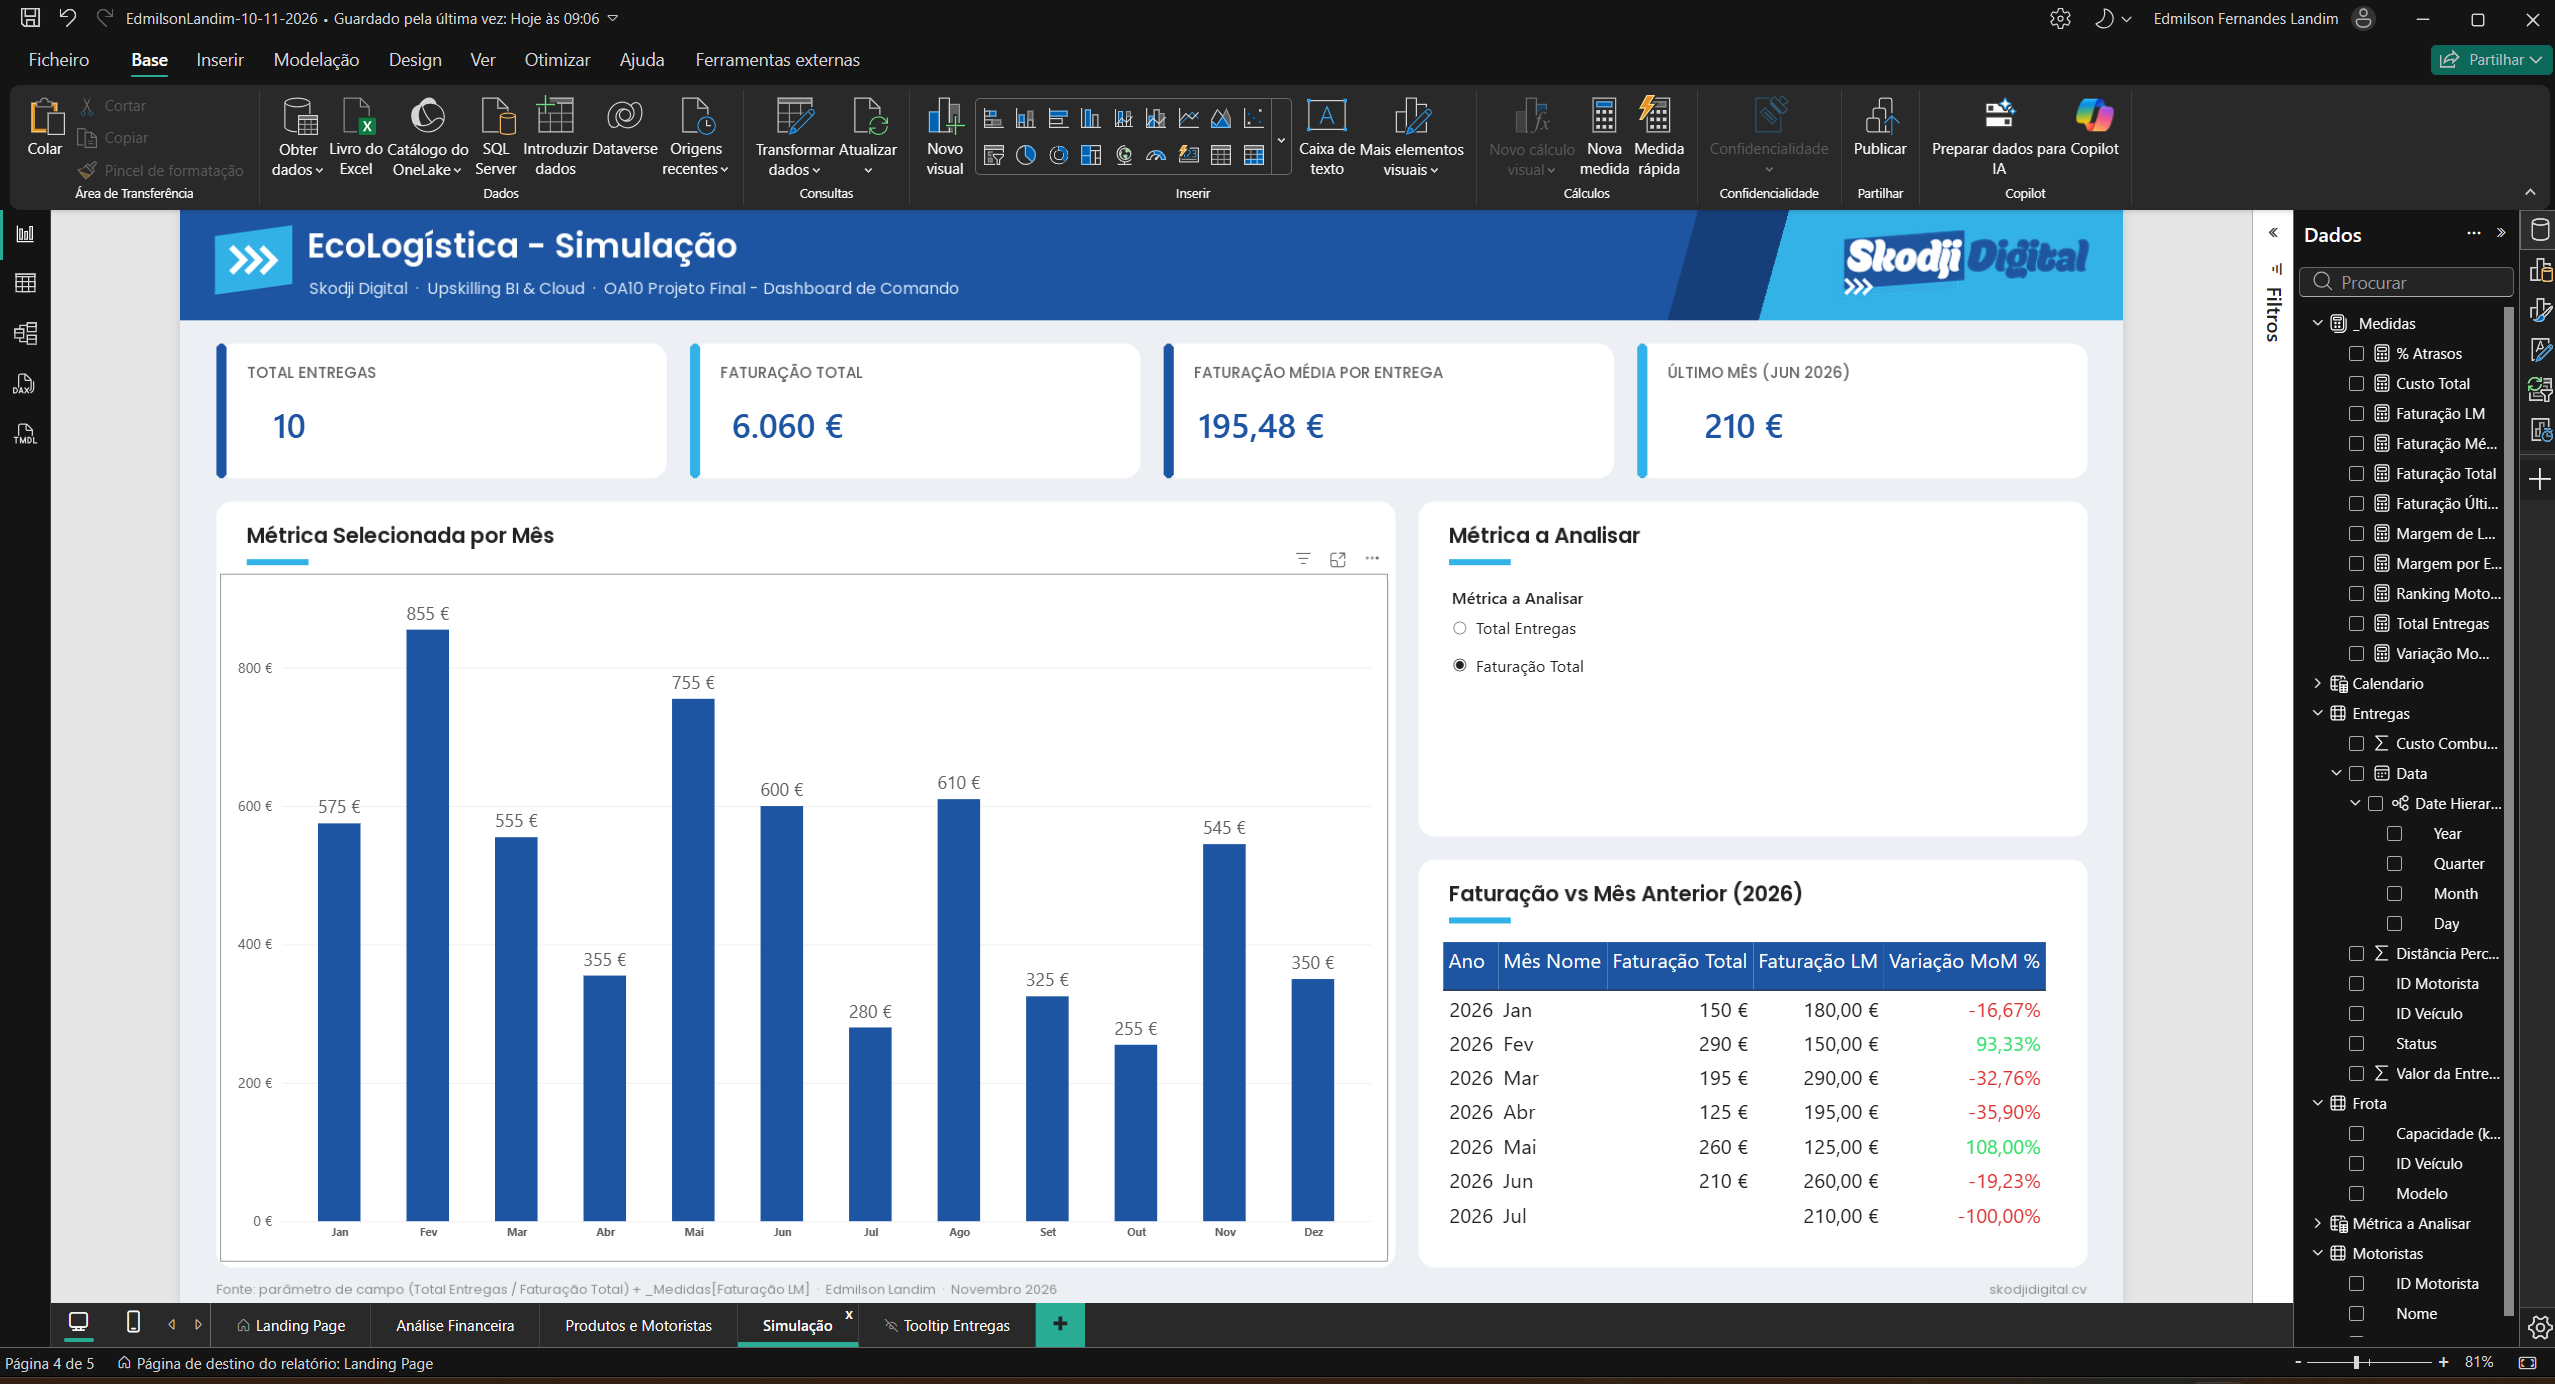
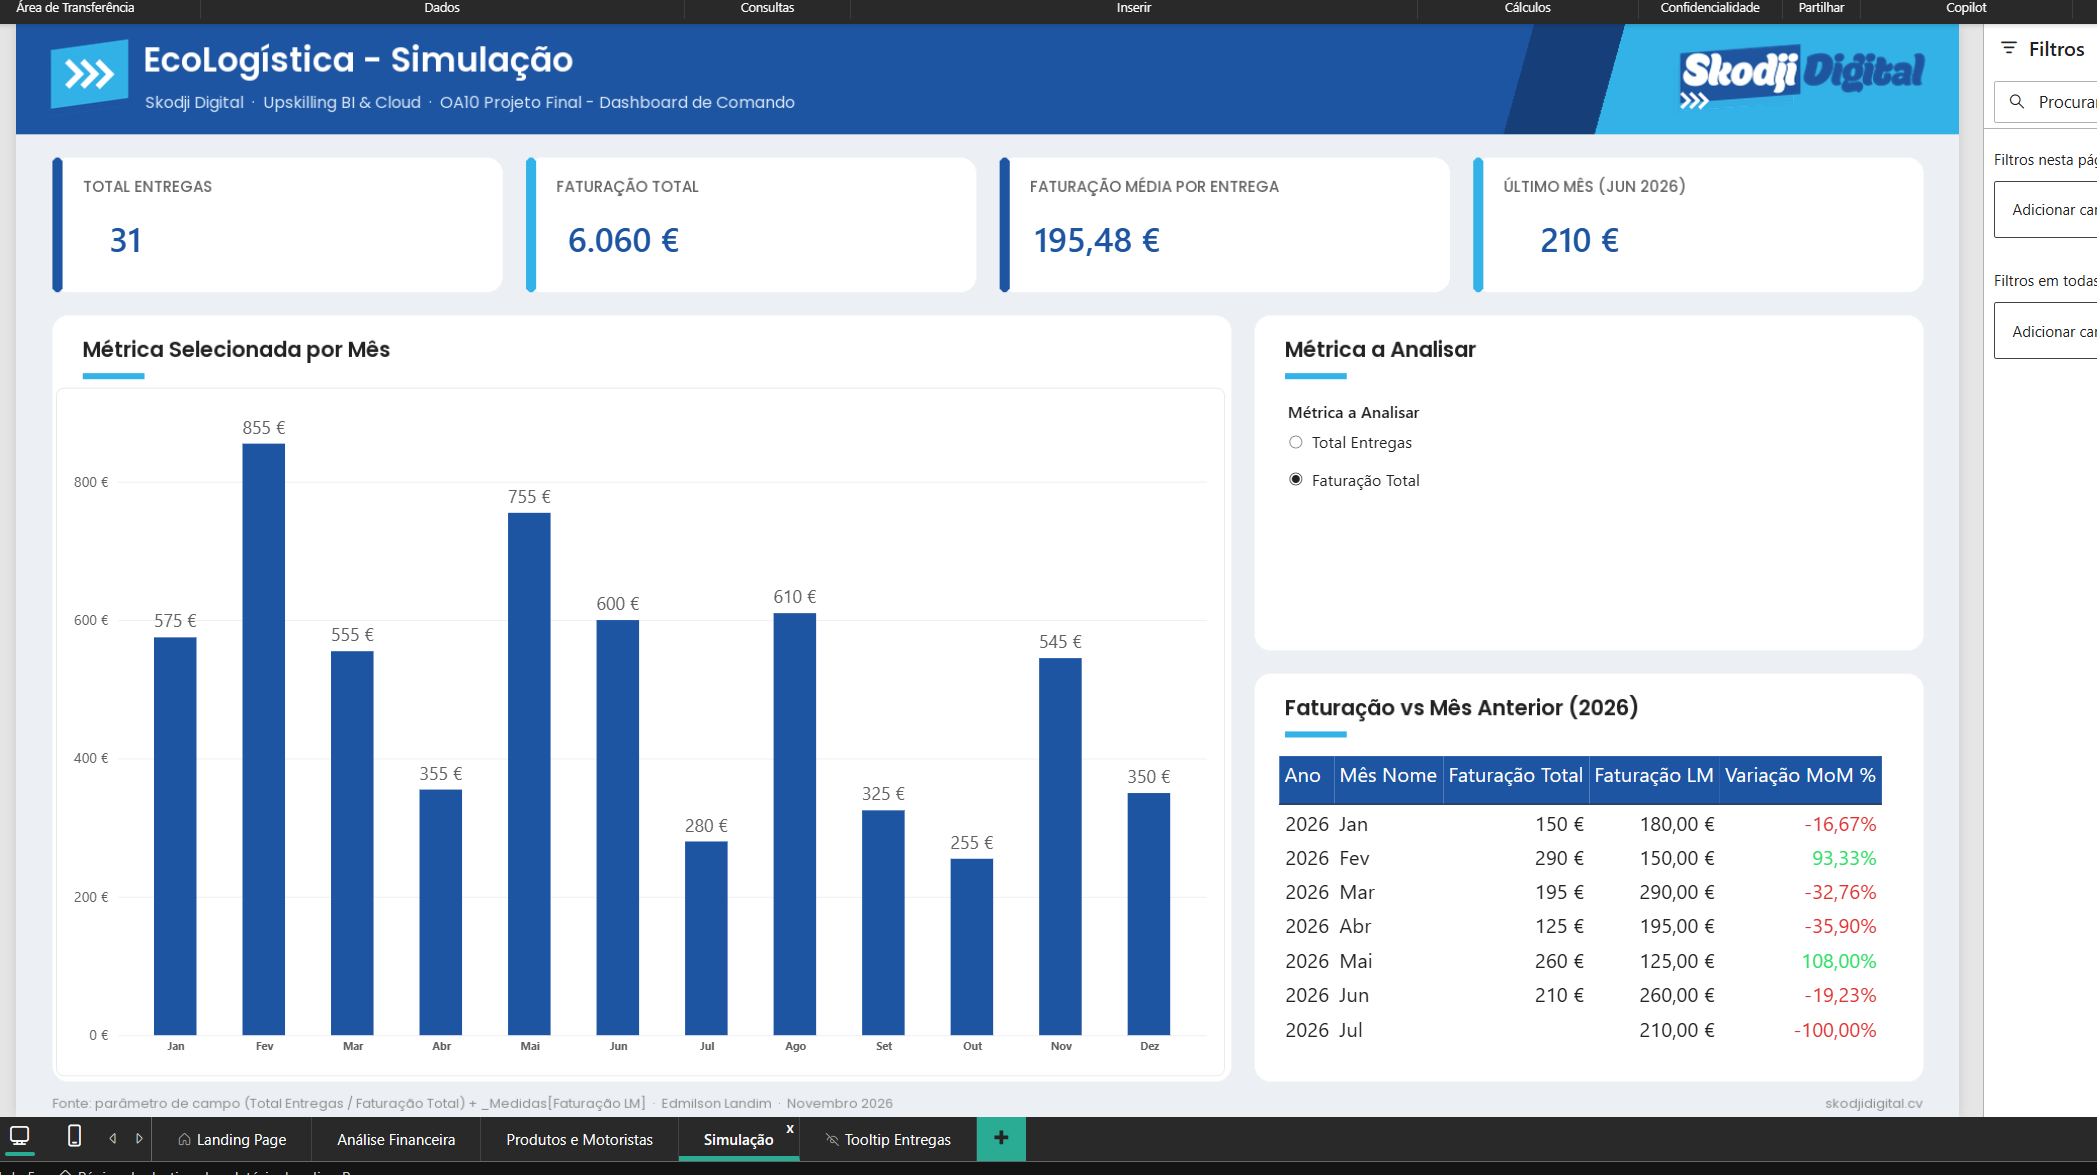
OA10 - ranking global e cartão Total Entregas corrigidos; evidências atualizadas

diff --git a/OA10 - Avaliação e próximos passos/oa-10/lab-assincrono/README.md b/OA10 - Avaliação e próximos passos/oa-10/lab-assincrono/README.md
@@ -365,7 +365,7 @@ Guardar em [`evidencias/`](evidencias/):
 - [x] Submetido no Moodle (10/11/2026 15:54) - [`09`](evidencias/09-submissao-moodle.png)
 
 Correções recomendadas antes do prazo (Moodle -> **Editar submissão** até 20/11/2026):
-- [ ] Simulação: o cartão **Total Entregas** mostra **10** (deve ser **31**): usar a medida `[Total Entregas]`
-- [ ] Produtos e Motoristas: **Ranking** por região (1, 1, 1, 2...): trocar para `ALL ( Motoristas )` (secção 2.3)
+- [x] Simulação: o cartão **Total Entregas** mostra **10** (deve ser **31**): usar a medida `[Total Entregas]`
+- [x] Produtos e Motoristas: **Ranking** por região (1, 1, 1, 2...): trocar para `ALL ( Motoristas )` (secção 2.3) - [`05b`](evidencias/05b-ranking-corrigido.png)
 - [ ] Simulação: matriz MoM com Jul 2026 a -100%: filtro `Faturação Total` não está em branco
 - [ ] Opcionais: cartão de várias linhas com **Unidades de apresentação = Nenhuma** (6.060,00 € em vez de 6 K €); medida `Distância Total = SUM ( Entregas[Distância Percorrida (km)] )` em vez da soma implícita
